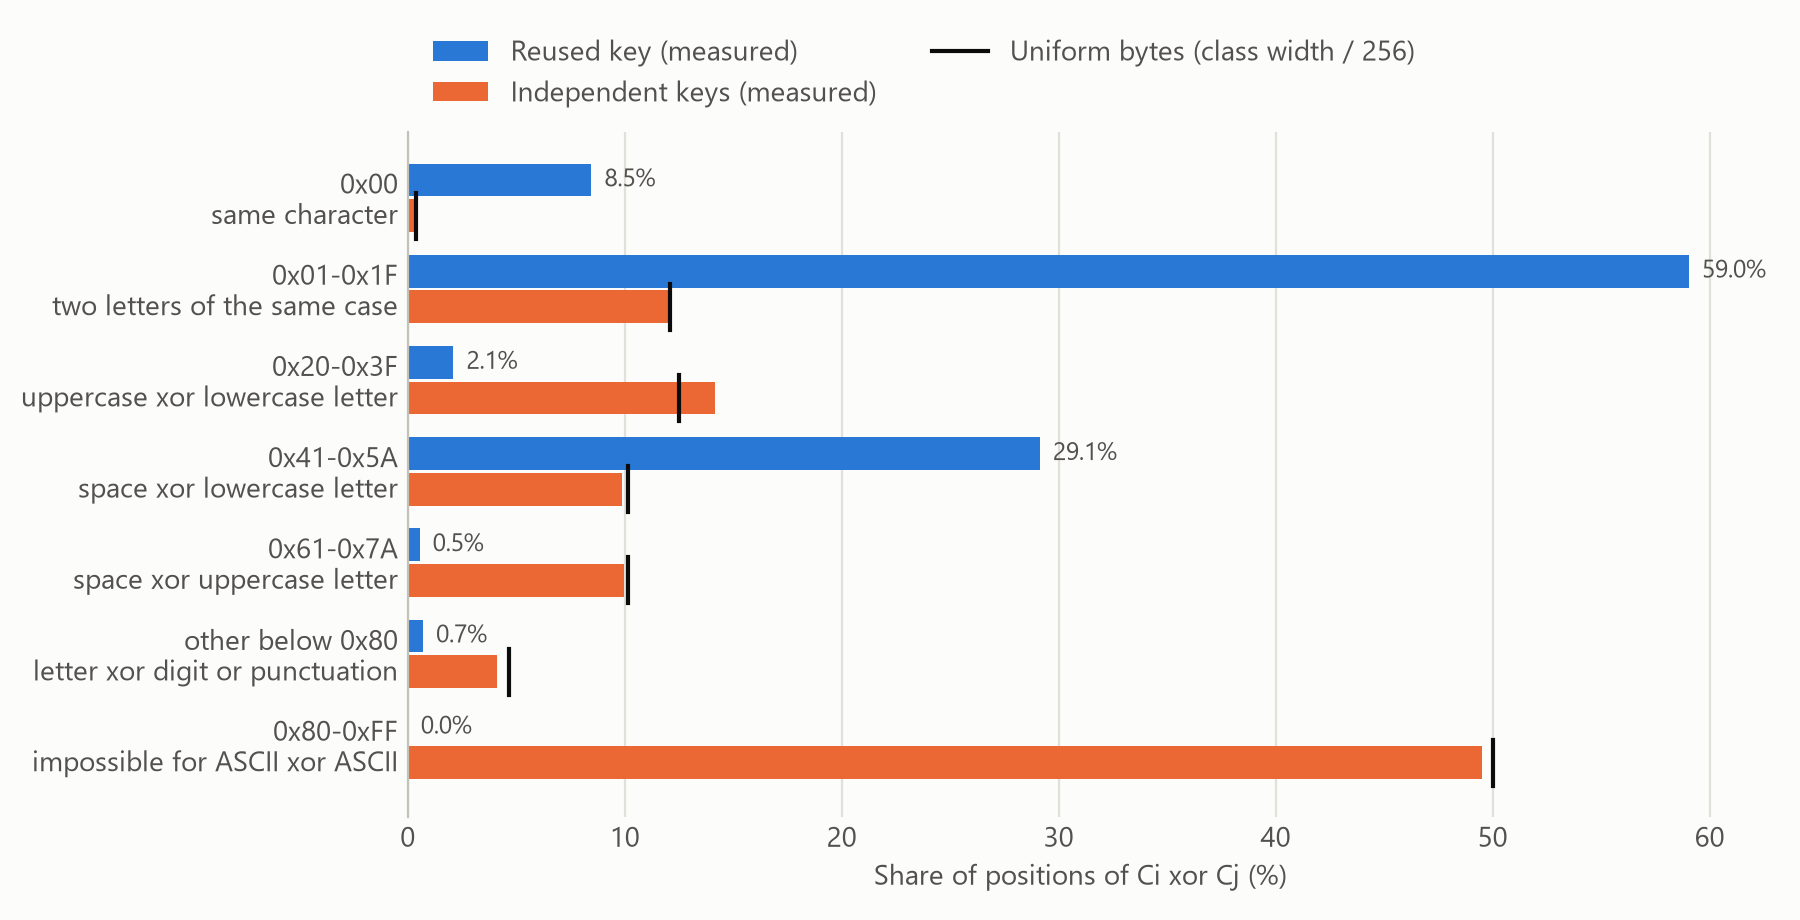
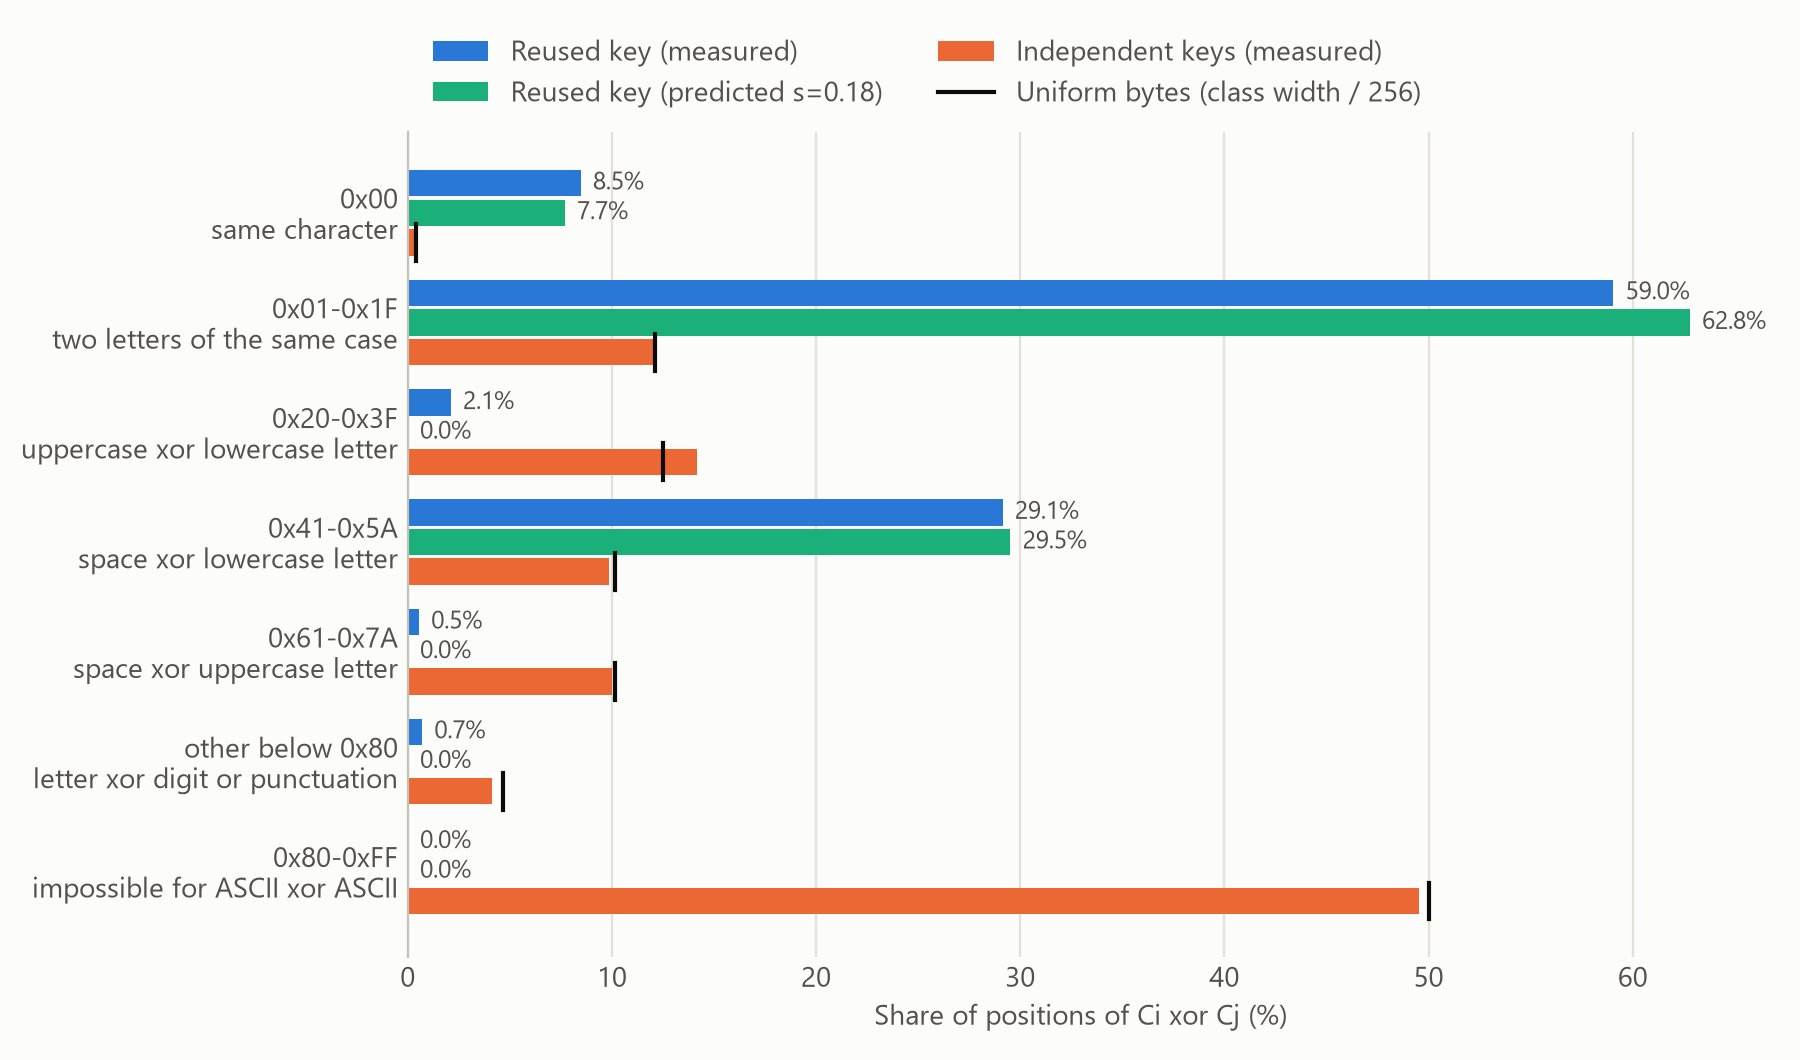
add hand example test and predictions from section 3.4

diff --git a/run_all.py b/run_all.py
@@ -34,6 +34,10 @@ N_TRIALS = 1000   # repetitions of the control experiment for the chi-square che
 REUSE_FILE = "ciphertexts.json"
 CONTROL_FILE = "ciphertexts_control.json"
 
+# predictions.json has one prediction per space probability s (report section 3.4).
+# s=0.18 is Shannon's value, so that is the one drawn in the figure.
+MAIN_PREDICTION = "s=0.18"
+
 # Classes for the byte Ci xor Cj:
 # (name, range as shown in the tables, usual cause, list of (low, high))
 CLASSES = [
@@ -268,10 +272,11 @@ def plot_histogram(hist_reuse, hist_control, chi_reuse, chi_control, path):
     plt.close(fig)
 
 
-def plot_classes(rows, path):
+def plot_classes(rows, path, prediction=None):
+    """prediction is the name of the predicted column to draw, e.g. 'predicted s=0.18'."""
     series = [("Reused key (measured)", BLUE, "reuse")]
-    if any(r["predicted"] != "" for r in rows):
-        series.append(("Reused key (predicted)", GREEN, "predicted"))
+    if prediction:
+        series.append((f"Reused key ({prediction})", GREEN, prediction))
     series.append(("Independent keys (measured)", ORANGE, "control"))
 
     fig, ax = plt.subplots(figsize=(9, 4.6 if len(series) == 2 else 5.3))
@@ -283,7 +288,7 @@ def plot_classes(rows, path):
                 continue
             value = 100 * r[column]
             ax.barh(y + shift, value, height=h, color=colour, label=label if y == 0 else None)
-            if column == "reuse":
+            if column != "control":
                 ax.text(value + 0.6, y + shift, f"{value:.1f}%", va="center", fontsize=9, color=GREY)
 
     # black tick on the control bar = share expected for uniform random bytes
@@ -400,32 +405,42 @@ def main():
         f"st. dev. {statistics.stdev(trials):.1f}, min {min(trials):.1f}, max {max(trials):.1f}")
     out(f"    repetitions that reached the reuse value: {sum(t >= chi['reuse'] for t in trials)}")
 
-    # 6. share of positions in each class, next to the theory prediction if we have it
-    predicted = {}
+    # 6. share of positions in each class, next to the predictions of section 3.4
+    predictions = {}
     if (DATA / "predictions.json").exists():
         with open(DATA / "predictions.json", encoding="utf-8") as f:
-            predicted = json.load(f)
+            predictions = json.load(f)
     class_rows = []
     for name, byte_range, cause, ranges in CLASSES:
         width = sum(high - low + 1 for low, high in ranges)
-        class_rows.append({
+        row = {
             "class": name,
             "byte_range": byte_range,
             "usual_cause": cause,
             "reuse": class_count(hist["reuse"], ranges) / n_pos,
-            "predicted": predicted.get(name, ""),
-            "control": class_count(hist["control"], ranges) / n_pos,
-            "uniform": width / 256,
-        })
+        }
+        for label, shares in predictions.items():
+            row[f"predicted {label}"] = shares.get(name, "")
+        row["control"] = class_count(hist["control"], ranges) / n_pos
+        row["uniform"] = width / 256
+        class_rows.append(row)
+
     out()
     out("[6] Share of positions in each class")
-    out(f"    {'byte range':<17} {'usual cause':<31} {'reuse':>7} {'predicted':>10} {'control':>8} {'uniform':>8}")
+    if predictions:
+        out("    (s=... columns: predicted for the reused key, s = probability of a space)")
+    header = f"    {'byte range':<17} {'usual cause':<31} {'reuse':>7}"
+    for label in predictions:
+        header += f" {label:>7}"
+    out(header + f" {'control':>8} {'uniform':>8}")
     for r in class_rows:
-        pred = "-" if r["predicted"] == "" else f"{100 * r['predicted']:.1f}%"
-        out(f"    {r['byte_range']:<17} {r['usual_cause']:<31} {100 * r['reuse']:>6.1f}% {pred:>10} "
-            f"{100 * r['control']:>7.1f}% {100 * r['uniform']:>7.1f}%")
-    if not predicted:
-        out("    (no data/predictions.json yet, so the predicted column is empty)")
+        line = f"    {r['byte_range']:<17} {r['usual_cause']:<31} {100 * r['reuse']:>6.1f}%"
+        for label in predictions:
+            p = r[f"predicted {label}"]
+            line += f" {'-':>7}" if p == "" else f" {100 * p:>6.1f}%"
+        out(line + f" {100 * r['control']:>7.1f}% {100 * r['uniform']:>7.1f}%")
+    if not predictions:
+        out("    (no data/predictions.json, so there is no predicted column)")
 
     types = pair_types(messages)
     out()
@@ -463,7 +478,9 @@ def main():
     ])
     plot_histogram(hist["reuse"], hist["control"], chi["reuse"], chi["control"],
                    results / "fig_xor_histogram.png")
-    plot_classes(class_rows, results / "fig_xor_classes.png")
+    drawn = MAIN_PREDICTION if MAIN_PREDICTION in predictions else next(iter(predictions), None)
+    plot_classes(class_rows, results / "fig_xor_classes.png",
+                 f"predicted {drawn}" if drawn else None)
 
     out()
     out(f"tables and figures are in {results.name}/")

diff --git a/test_otp.py b/test_otp.py
@@ -58,6 +58,36 @@ class TestBasics(unittest.TestCase):
         self.assertEqual(xor_bytes(b"secret", b"      "), b"SECRET")
 
 
+class TestHandExample(unittest.TestCase):
+    """The hand-worked example from section 3.6 of the report."""
+
+    P1 = b"attack at"
+    P2 = b"hold fast"
+    K = bytes.fromhex("3A91C75E0DB268F41B")
+    C1 = bytes.fromhex("5BE5B33F6ED948956F")
+    C2 = bytes.fromhex("52FEAB3A2DD409876F")
+    D = bytes.fromhex("091B1805430D411200")
+
+    def test_ciphertexts(self):
+        self.assertEqual(encrypt(self.P1, self.K), self.C1)
+        self.assertEqual(encrypt(self.P2, self.K), self.C2)
+
+    def test_key_cancels(self):
+        self.assertEqual(xor_bytes(self.C1, self.C2), self.D)
+        self.assertEqual(xor_bytes(self.P1, self.P2), self.D)
+
+    def test_crib(self):
+        crib = b"attack"
+        self.assertEqual(xor_bytes(crib, self.D[0:6]), b"hold f")
+        # wrong offset gives garbage
+        self.assertEqual(xor_bytes(crib, self.D[2:8]).hex(), "7971376c2279")
+
+    def test_key_recovery(self):
+        key_part = xor_bytes(self.C2[:6], b"hold f")
+        self.assertEqual(key_part, self.K[:6])
+        self.assertEqual(xor_bytes(self.C1[:6], key_part), b"attack")
+
+
 class TestPad(unittest.TestCase):
 
     def test_sender_and_receiver(self):

diff --git a/README.md b/README.md
@@ -46,6 +46,7 @@ Runs the tests.
 - `data/corpus.json` - the six plaintexts (ground truth, only for scoring)
 - `data/ciphertexts.json` - reuse set, one key for all six messages
 - `data/ciphertexts_control.json` - control set, one key per message
+- `data/predictions.json` - predicted class shares from section 3.4
 - `results/summary.txt` - everything the script prints
 - `results/xor_identity.csv` - C1 xor C2 = P1 xor P2 check for every pair
 - `results/chi_square.csv` - chi-square against uniform, reuse and control
@@ -71,16 +72,21 @@ them, and `run_all.py` refuses to write a file with any other field.
 
 ## Predicted class shares
 
-To compare the measurements with the theory, put the predicted share of each
-class in `data/predictions.json` and run the script again. They show up in
-the table and in the second figure. Classes that are not in the file are left
-empty. The numbers below only show the format:
-
-    {"zero": 0.07, "same_case": 0.55, "space_lower": 0.30}
+`data/predictions.json` has the predictions from section 3.4 of the report,
+one set for each space probability s (0.15, 0.18, 0.20). They are printed
+next to the measured shares, and the second figure draws the s=0.18 one.
 
 Class names: `zero` (0x00), `same_case` (0x01-0x1F), `opposite_case`
 (0x20-0x3F), `space_lower` (0x41-0x5A), `space_upper` (0x61-0x7A),
 `other_low` (the rest below 0x80), `high_bit` (0x80-0xFF).
+
+The numbers are taken from the table in section 3.4 like this:
+
+- `zero` = identical letters + space xor space
+- `same_case` = letter xor letter - identical letters
+- `space_lower` = space xor letter
+- everything else = 0, because the model only has lowercase letters and
+  spaces (the three shares above already add up to 1)
 
 ## Notes
 
